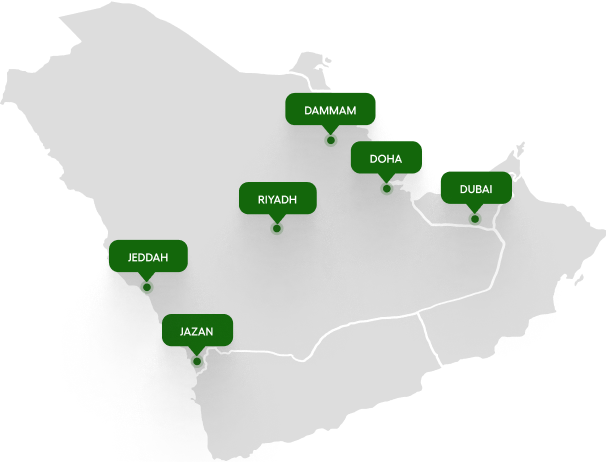
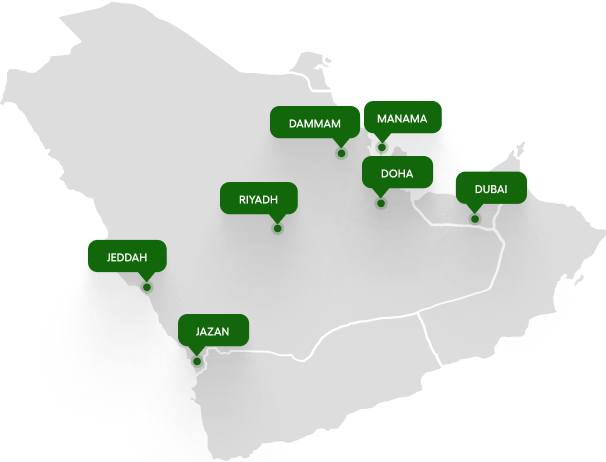
changes

diff --git a/src/app/components/Locations.js b/src/app/components/Locations.js
@@ -51,7 +51,7 @@ function Locations() {
 
         <div className="locationImgContainer">
           <Image
-            src="/location.webp"
+            src="/location.png"
             width={606}
             height={527}
             alt="ImageLocation"
